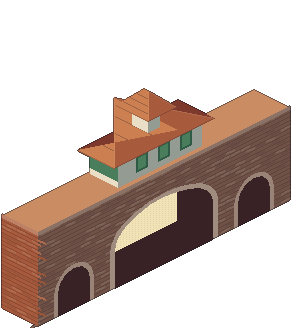
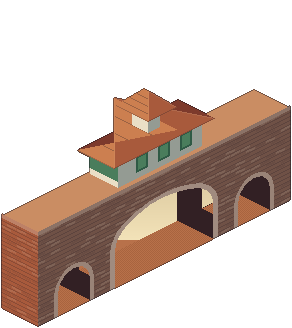
Gate: walkable small arches, tunnel interior with floor, brick spill fix; lightning is flash + rolling thunder only

diff --git a/js/world.js b/js/world.js
@@ -207,7 +207,8 @@ const World = (() => {
 
   function genGate() {                                         // Ô Quan Chưởng nằm giữa phố đi bộ: hai bên đều là chợ đêm / ẩm thực
     const gx = 24, gy = CORRY[PED][0]
-    mark(gx, gy, 1, 7, false); for (const y of [gy, gy + 1, gy + 5, gy + 6]) blk[y][gx] = true
+    mark(gx, gy, 1, 7, false)
+    for (const dy of [0.22, 1.78, 5.22, 6.78]) colliders.push({ x: gx + 0.5, y: gy + dy, r: 0.24 })      // chỉ các trụ tường chặn: đi bộ qua được cả 3 cổng (giữa + 2 ô nhỏ)
     sprite('lm_gate', gx, gy)
     pois.push({ id: 'gate', label: 'Ô Quan Chưởng', gx: gx + 2.2, gy: gy + 3.5, r: 2.6 })
   }
@@ -508,39 +509,19 @@ const World = (() => {
     if (actx) { if (actx.state === 'suspended') actx.resume(); return }
     try { actx = new (window.AudioContext || window.webkitAudioContext)(); const n = actx.sampleRate * 3, b = actx.createBuffer(1, n, actx.sampleRate), d = b.getChannelData(0); let l = 0; for (let i = 0; i < n; i++) { l = l * 0.98 + (Math.random() * 2 - 1) * 0.02; d[i] = l * 6 } noiseBuf = b } catch (e) { actx = null }
   }
-  function thunder(dist, vol) {
+  function thunder(dist, vol) {                                // sấm rền: tiếng nổ đục rồi lăn dài, nhiều đợt, trễ theo khoảng cách
     if (!actx || actx.state !== 'running' || !noiseBuf) return
-    const t0 = actx.currentTime + 0.02 + dist * 0.9
-    const src = actx.createBufferSource(); src.buffer = noiseBuf; const lp = actx.createBiquadFilter(); lp.type = 'lowpass'; lp.frequency.setValueAtTime(900 - dist * 600, t0); lp.frequency.exponentialRampToValueAtTime(70, t0 + 2.2)
-    const g = actx.createGain(); g.gain.setValueAtTime(0.0001, t0); g.gain.exponentialRampToValueAtTime(0.9 * vol * (1 - dist * 0.5), t0 + 0.04); g.gain.exponentialRampToValueAtTime(0.0001, t0 + 2.6)
-    src.connect(lp); lp.connect(g); g.connect(actx.destination); src.start(t0, Math.random() * 0.3); src.stop(t0 + 2.7)
+    const t0 = actx.currentTime + 0.05 + dist * 1.3
+    const src = actx.createBufferSource(); src.buffer = noiseBuf; src.loop = true
+    const lp = actx.createBiquadFilter(); lp.type = 'lowpass'; lp.frequency.setValueAtTime(560 - dist * 280, t0); lp.frequency.exponentialRampToValueAtTime(55, t0 + 4.2)
+    const g = actx.createGain(), v = vol * (1 - dist * 0.45), ramp = (a, t) => g.gain.exponentialRampToValueAtTime(Math.max(0.0001, a * v), t0 + t)
+    g.gain.setValueAtTime(0.0001, t0); ramp(0.8, 0.1); ramp(0.3, 0.45); ramp(0.75, 0.85); ramp(0.22, 1.4); ramp(0.5, 1.9); ramp(0.15, 2.7); ramp(0.0001, 4.3)
+    src.connect(lp); lp.connect(g); g.connect(actx.destination); src.start(t0, Math.random() * 1.5); src.stop(t0 + 4.4)
   }
-  function bolt(x0, y0, x1, y1, rough, out) {
-    if (Math.hypot(x1 - x0, y1 - y0) < 7) { out.push([x0, y0, x1, y1]); return }
-    const mx = (x0 + x1) / 2 + (Math.random() - 0.5) * rough, my = (y0 + y1) / 2 + (Math.random() - 0.5) * rough * 0.3
-    bolt(x0, y0, mx, my, rough / 2, out); bolt(mx, my, x1, y1, rough / 2, out)
-  }
-  function strike() {
-    const V = Game.view || { w: innerWidth, h: innerHeight, ox: 0, oy: 0 }
-    const tall = statSorted.filter((o) => /^(tower_|t_bang|t_phuong|lm_)/.test(o.name || '') && o.dx + V.ox > 20 && o.dx + o.w + V.ox < V.w - 20 && o.dy + V.oy > -20 && o.dy + V.oy < V.h * 0.7)
-    let tx, ty
-    if (tall.length && Math.random() < 0.75) { const o = tall[Math.floor(Math.random() * tall.length)]; tx = o.dx + o.w / 2 + V.ox; ty = o.dy + Math.min(o.h * 0.2, 30) + V.oy } else { tx = V.w * (0.15 + Math.random() * 0.7); ty = V.h * (0.45 + Math.random() * 0.4) }
-    const sx = tx + (Math.random() - 0.5) * V.w * 0.25, segs = []
-    bolt(sx, -10, tx, ty, 70, segs)
-    for (let i = 0, nf = 2 + Math.floor(Math.random() * 3); i < nf; i++) { const s0 = segs[Math.floor(segs.length * (0.2 + Math.random() * 0.5))]; if (s0) bolt(s0[2], s0[3], s0[2] + (Math.random() - 0.5) * 120, s0[3] + 40 + Math.random() * 70, 34, segs) }
-    const near = Math.random() < 0.6, pulses = [[0, 1], [0.08, 0.4], [0.17, 0.95], [0.3, 0.3]]
-    sky.bolts.push({ segs, tx, ty, t: 0, life: 0.45, pulses })
-    if (near) sky.shake = Math.max(sky.shake, 4)
-    thunder(near ? 0.05 : 0.5 + Math.random() * 0.5, near ? 1.6 : 1.1)
-  }
-  function drawBolts() {
-    for (const b of sky.bolts) {
-      const a = b.t < 0.3 ? (Math.floor(b.t * 40) % 2 ? 0.6 : 1) : Math.max(0, 1 - (b.t - 0.3) / 0.15)
-      ctx.lineCap = 'round'
-      ctx.strokeStyle = `rgba(150,180,255,${0.3 * a})`; ctx.lineWidth = 6; ctx.beginPath(); for (const [x0, y0, x1, y1] of b.segs) { ctx.moveTo(x0, y0); ctx.lineTo(x1, y1) } ctx.stroke()
-      ctx.strokeStyle = `rgba(245,248,255,${a})`; ctx.lineWidth = 2; ctx.beginPath(); for (const [x0, y0, x1, y1] of b.segs) { ctx.moveTo(x0, y0); ctx.lineTo(x1, y1) } ctx.stroke()
-      const g = ctx.createRadialGradient(b.tx, b.ty, 0, b.tx, b.ty, 46); g.addColorStop(0, `rgba(220,232,255,${0.7 * a})`); g.addColorStop(1, 'rgba(220,232,255,0)'); ctx.fillStyle = g; ctx.fillRect(b.tx - 46, b.ty - 46, 92, 92)
-    }
+  function strike() {                                          // chỉ nháy sáng (vài nhịp) kèm tiếng sấm rền, không vẽ tia sét
+    const near = Math.random() < 0.55, pulses = near ? [[0, 1], [0.1, 0.35], [0.22, 0.9], [0.36, 0.25]] : [[0, 0.7], [0.14, 0.3]]
+    sky.bolts.push({ t: 0, life: 0.5, pulses })
+    thunder(near ? 0.15 + Math.random() * 0.2 : 0.55 + Math.random() * 0.45, near ? 1.5 : 1.1)
   }
   const drops = Array.from({ length: 480 }, () => ({ u: Math.random(), v: Math.random(), s: 0.7 + Math.random() * 0.6 }))
   const ripples = []
@@ -816,8 +797,7 @@ const World = (() => {
     if (shC.width !== w || shC.height !== h) { shC.width = w; shC.height = h }
     ctx.imageSmoothingEnabled = false
     const bg = ctx.createLinearGradient(0, 0, 0, h); bg.addColorStop(0, '#2c3b57'); bg.addColorStop(1, '#141824'); ctx.fillStyle = bg; ctx.fillRect(0, 0, w, h)
-    let ox = Math.round(w / 2 - cam.x), oy = Math.round(h / 2 - cam.y); if (sky.shake > 0.05) { ox += Math.round((Math.random() - 0.5) * 2 * sky.shake); oy += Math.round((Math.random() - 0.5) * 2 * sky.shake) }
-    Game.view = { w, h, ox, oy }
+    const ox = Math.round(w / 2 - cam.x), oy = Math.round(h / 2 - cam.y); Game.view = { w, h, ox, oy }
     drawSkirt(ox, oy)
     const wf = Math.floor(T / 0.7) & 1
     for (let y = 0; y < N; y++) for (let x = 0; x < N; x++) {
@@ -939,7 +919,6 @@ const World = (() => {
     for (const g of glows) { const [sx, sy] = proj(g.gx, g.gy); if (sx + ox < -60 || sx + ox > w + 60 || sy + oy < -60 || sy + oy > h + 80) continue; glowAt(g.gx, g.gy, g.z, g.r, g.c, g.a * (g.always ? 1 : Math.min(1, night * 1.2)), ox, oy) }
     ctx.globalCompositeOperation = 'source-over'
     if (sky.rain > 0.02) drawRain(dt, w, h)
-    drawBolts()
     if (sky.flash > 0.02) { ctx.fillStyle = `rgba(236,242,255,${0.4 * sky.flash})`; ctx.fillRect(0, 0, w, h) }
     const vg = ctx.createRadialGradient(w / 2, h / 2, Math.min(w, h) * 0.4, w / 2, h / 2, Math.max(w, h) * 0.75); vg.addColorStop(0, 'rgba(0,0,0,0)'); vg.addColorStop(1, `rgba(0,0,0,${0.14 + 0.12 * night + 0.1 * sky.rain})`)
     ctx.fillStyle = vg; ctx.fillRect(0, 0, w, h)

diff --git a/assets/src/lib/landmarks.js b/assets/src/lib/landmarks.js
@@ -6,7 +6,7 @@ function brickFace(I, F, a0, a1, z0, z1, base, rnd, wu, du) {
   const fq = (x0, x1, y0, y1, col) => F === 'R' ? I.fR(wu, x0, x1, y0, y1, col) : I.fL(du, x0, x1, y0, y1, col)
   fq(a0, a1, z0, z1, base)
   for (let z = z0 + 3; z < z1; z += 4) fq(a0, a1, z, z + 1, dark(base, 0.22))
-  for (let z = z0; z < z1; z += 4) for (let a = a0 + ((z / 4) % 2) * 5; a < a1; a += 10) if (rnd() < 0.5) fq(a, a + 9, z + 1, z + 3, rnd() < 0.5 ? lite(base, 0.1) : dark(base, 0.08))
+  for (let z = z0; z < z1; z += 4) for (let a = a0 + ((z / 4) % 2) * 5; a < a1; a += 10) if (rnd() < 0.5) fq(a, Math.min(a + 9, a1), z + 1, z + 3, rnd() < 0.5 ? lite(base, 0.1) : dark(base, 0.08))
 }
 function hipRoof(I, x0, y0, x1, y1, z, rise, near1, near2, far, line) {
   const i = (y1 - y0) / 2, ym = (y0 + y1) / 2, A = [x0 + i, ym, z + rise], B = [x1 - i, ym, z + rise]
@@ -35,14 +35,24 @@ DRAW.gate = (cv, s, I) => {
   }
   const OPEN = mix(INK, TCR[1], 0.3)
   arch(du / 2, 54, 38, 70, lite(f.right, 0.35)); arch(du / 2, 49, 38, 66, OPEN)                           // vòm giữa (viền đá sáng)
-  {                                                  // nhìn xuyên cổng: thấy ánh sáng phía bên kia (cổng đi qua được, không phải tường kín)
-    const far = new Cv(cv.w, cv.h), I2 = new Iso(far, I.ox, I.oy), pts = [[0, du / 2 + 49, 0], [0, du / 2 + 49, 38]]
-    for (let t = 0; t <= 12; t++) { const a = t / 12 * Math.PI; pts.push([0, du / 2 + 49 * Math.cos(a), 38 + 28 * Math.sin(a)]) }
-    pts.push([0, du / 2 - 49, 38], [0, du / 2 - 49, 0])
-    far.poly(pts.map((p) => I2.P(...p)), '#f2e2b8')
-    for (let y = 0; y < cv.h; y++) for (let x = 0; x < cv.w; x++) if (far.get(x, y) && cv.get(x, y) === OPEN) cv.set(x, y, y % 2 && x % 3 === 0 ? '#e6d3a4' : '#f2e2b8')
-  }
   for (const yc of [36, du - 36]) { arch(yc, 20, 22, 44, lite(f.right, 0.3)); arch(yc, 16, 22, 40, OPEN) }
+  {                                                  // lòng cổng: nền đường lát, thấy ánh sáng và phố bên kia qua đầu cổng bên kia (đi bộ xuyên qua được cả 3 ô)
+    const holes = [[du / 2, 49, 38, 66], [36, 16, 22, 40], [du - 36, 16, 22, 40]], far = new Cv(cv.w, cv.h), I2 = new Iso(far, I.ox, I.oy)
+    for (const [yc, hw, zs, zt] of holes) {
+      const pts = [[0, yc + hw, 0], [0, yc + hw, zs]]
+      for (let t = 0; t <= 12; t++) { const a = t / 12 * Math.PI; pts.push([0, yc + hw * Math.cos(a), zs + (zt - zs) * Math.sin(a)]) }
+      pts.push([0, yc - hw, zs], [0, yc - hw, 0]); far.poly(pts.map((p) => I2.P(...p)), '#fff')
+    }
+    const farBase = I.P(0, du / 2, 0)[1], PAV = ['#b8714a', '#a8643f']
+    for (let y = 0; y < cv.h; y++) for (let x = 0; x < cv.w; x++) {
+      if (cv.get(x, y) !== OPEN) continue
+      const X = (2 * (y - I.oy) + (x - I.ox)) / 2                                   // giao điểm tia nhìn với mặt đất
+      const Yf = X - (x - I.ox)
+      if (X >= 0 && X <= wu && holes.some(([yc, hw]) => Yf >= yc - hw && Yf <= yc + hw)) { cv.set(x, y, (x + y) % 2 ? PAV[0] : PAV[1]); continue }       // nền đường trong lòng cổng
+      if (far.get(x, y)) cv.set(x, y, y > farBase - 6 ? PAV[0] : mix('#f2e2b8', '#c9b48a', Math.max(0, Math.min(1, (farBase - 6 - y) / 70)) * 0.6))
+      else cv.set(x, y, mix(OPEN, INK, 0.25))
+    }
+  }
   I.fR(wu, 0, du, Hb - 2, Hb + 2, lite(f.right, 0.2)); I.fL(du, 0, wu, Hb - 2, Hb + 2, lite(f.left, 0.25))
   // lầu trên
   const L = 4, U = 26, y0 = 84, y1 = du - 84, wc = '#eadfc6', wf = faceCols(wc)

diff --git a/index.html b/index.html
@@ -13,8 +13,8 @@
 <body>
 <canvas id="c"></canvas>
 <div id="hud">đang tải…</div>
-<script src="js/player.js"></script>
-<script src="js/world.js"></script>
+<script src="js/player.js?v=8"></script>
+<script src="js/world.js?v=8"></script>
 <script>
 (async () => {
   try { await World.load(); World.generate(); World.start(document.getElementById('c'), document.getElementById('hud')) }
